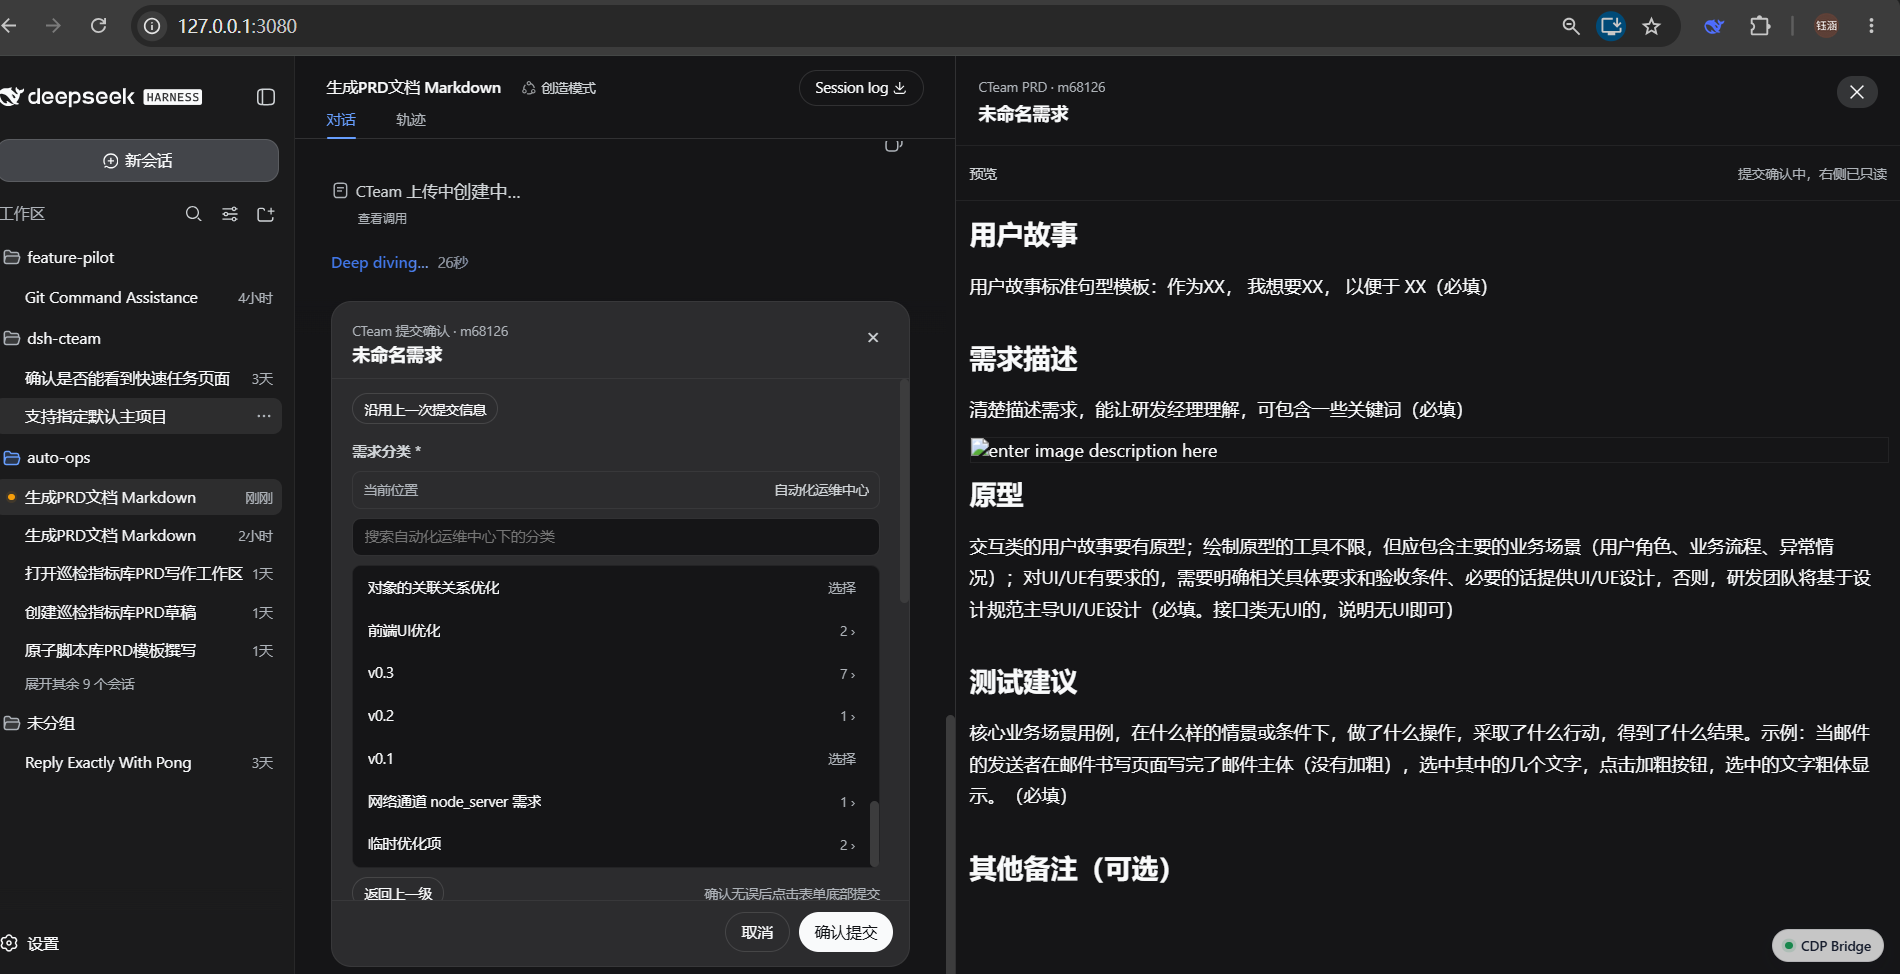
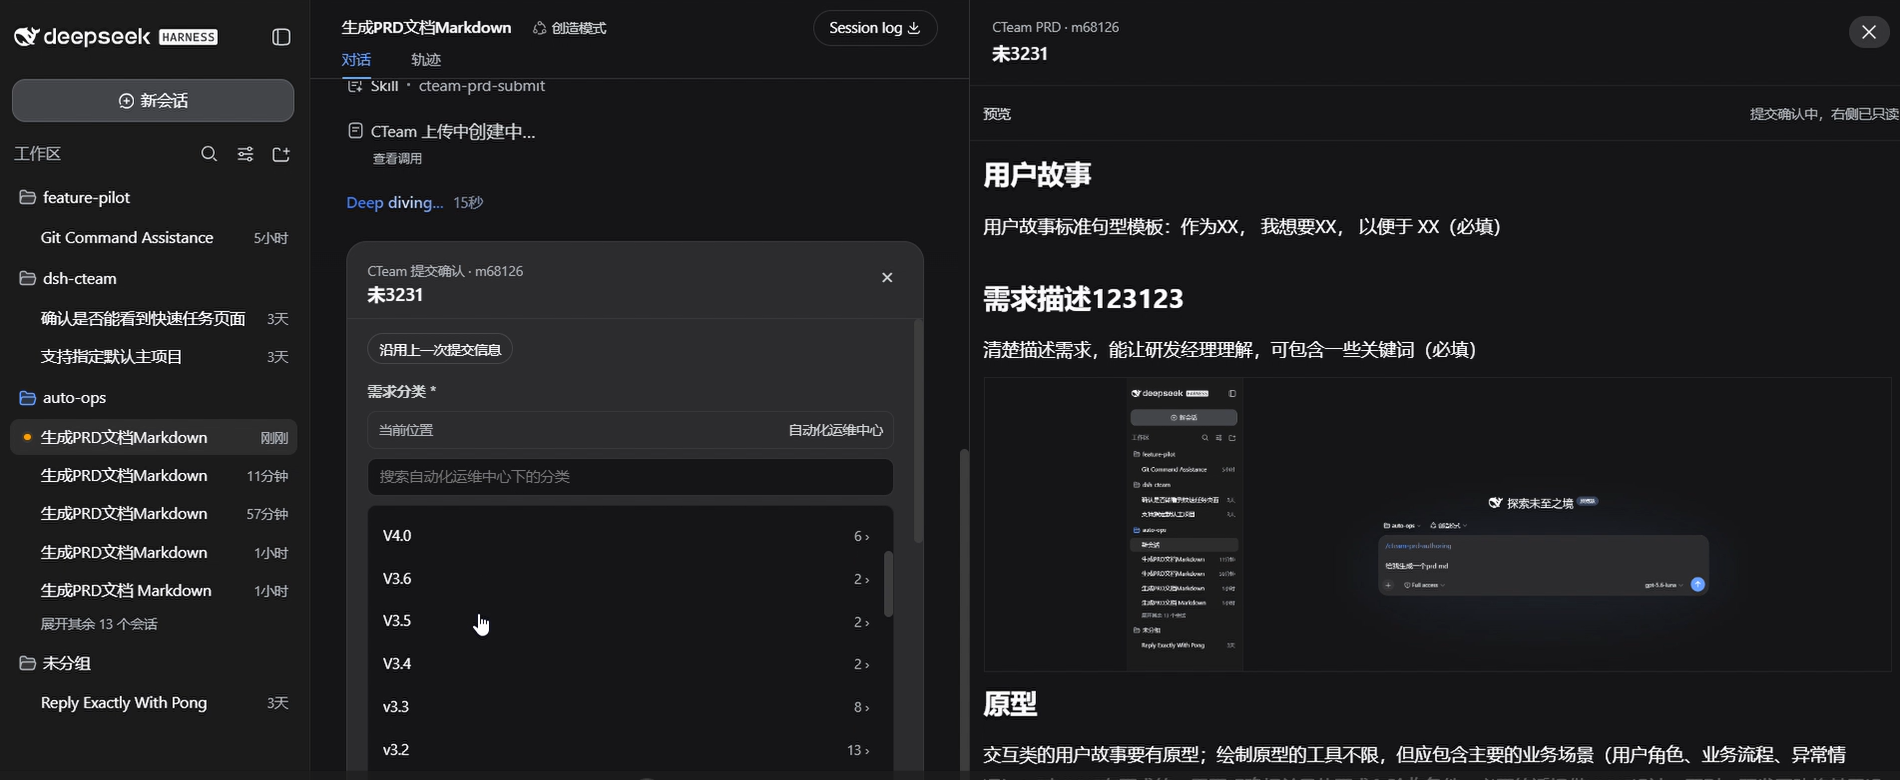
docs: 更新工作台说明截图
- 替换 README 中的 PRD 工作台、提交表单和提交成功截图。
- 新增线上 CTeam 需求查看效果图，补充提交后的展示说明。

diff --git a/README.md b/README.md
@@ -26,6 +26,10 @@
 
 ![PRD 提交成功](./docs/images/prd-submit-success.png)
 
+上传完成后，可以在 CTeam 页面查看已经创建的需求和正文图片。
+
+![CTeam 需求查看效果](./docs/images/cteam-demand-result.png)
+
 ## 注意事项
 
 - 右侧工作台的编辑和自动保存依赖浏览器缓存，不会直接修改本地 Markdown 文件。
